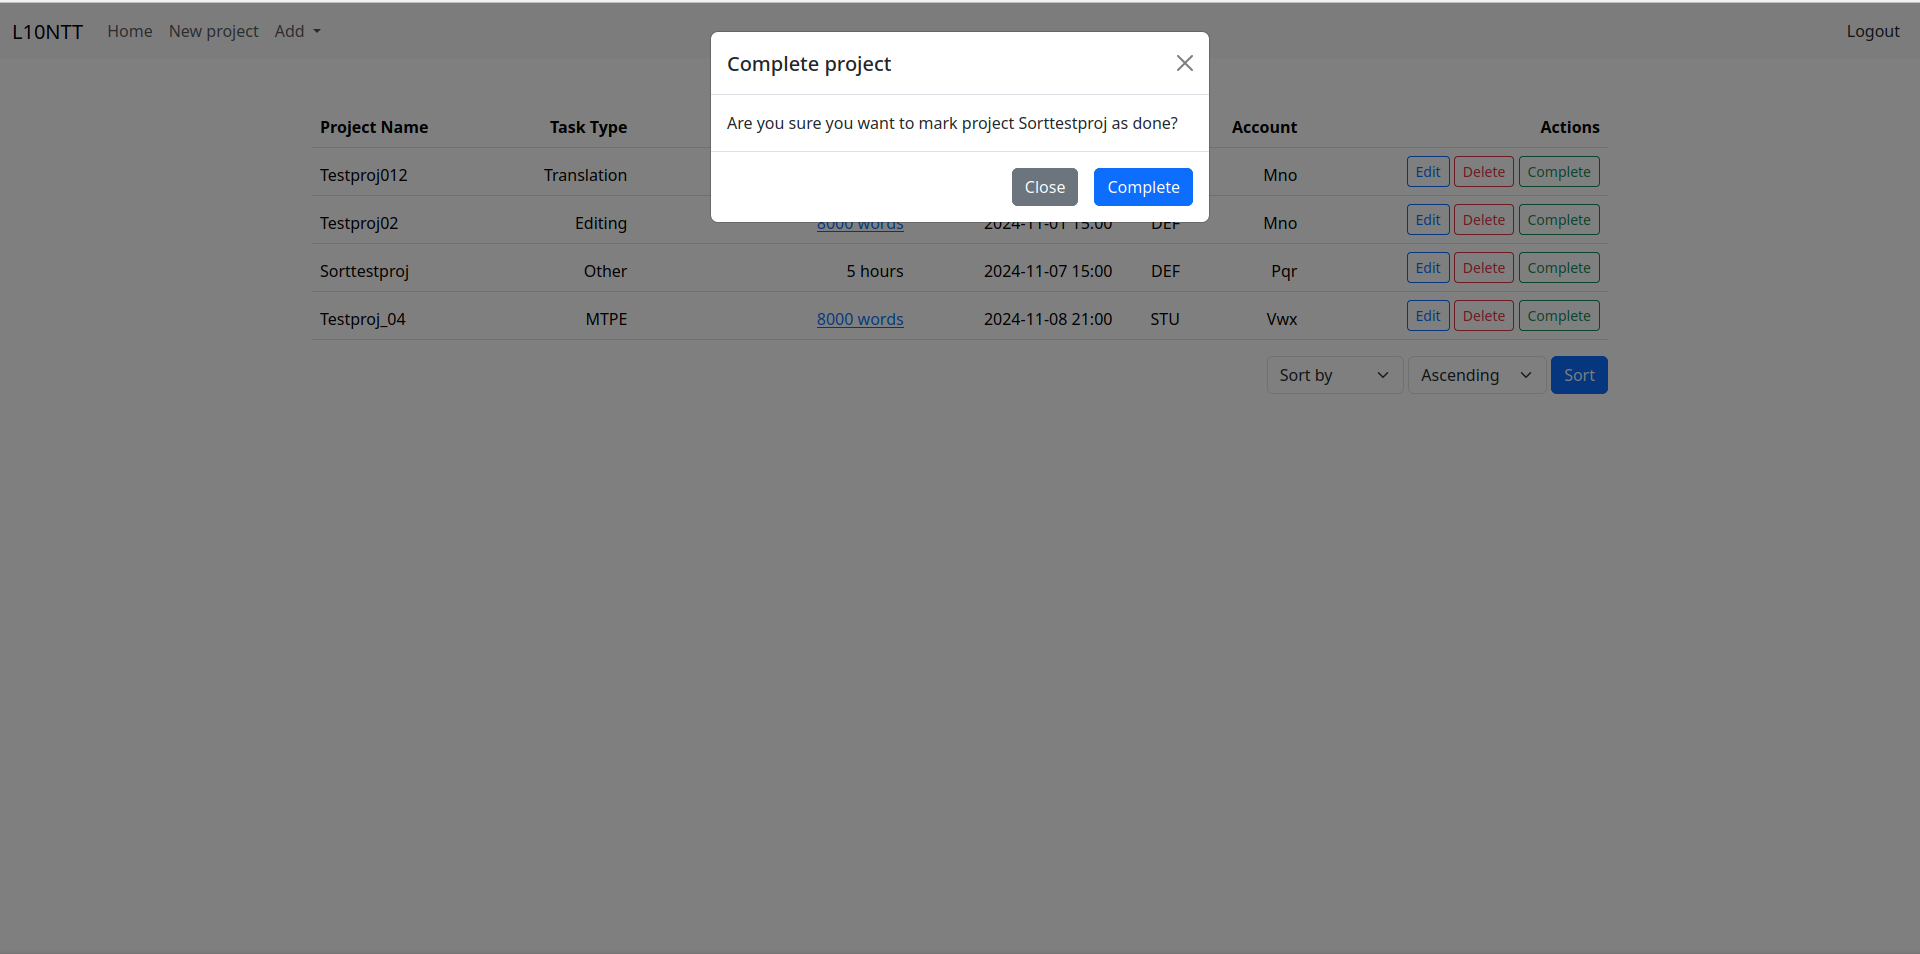
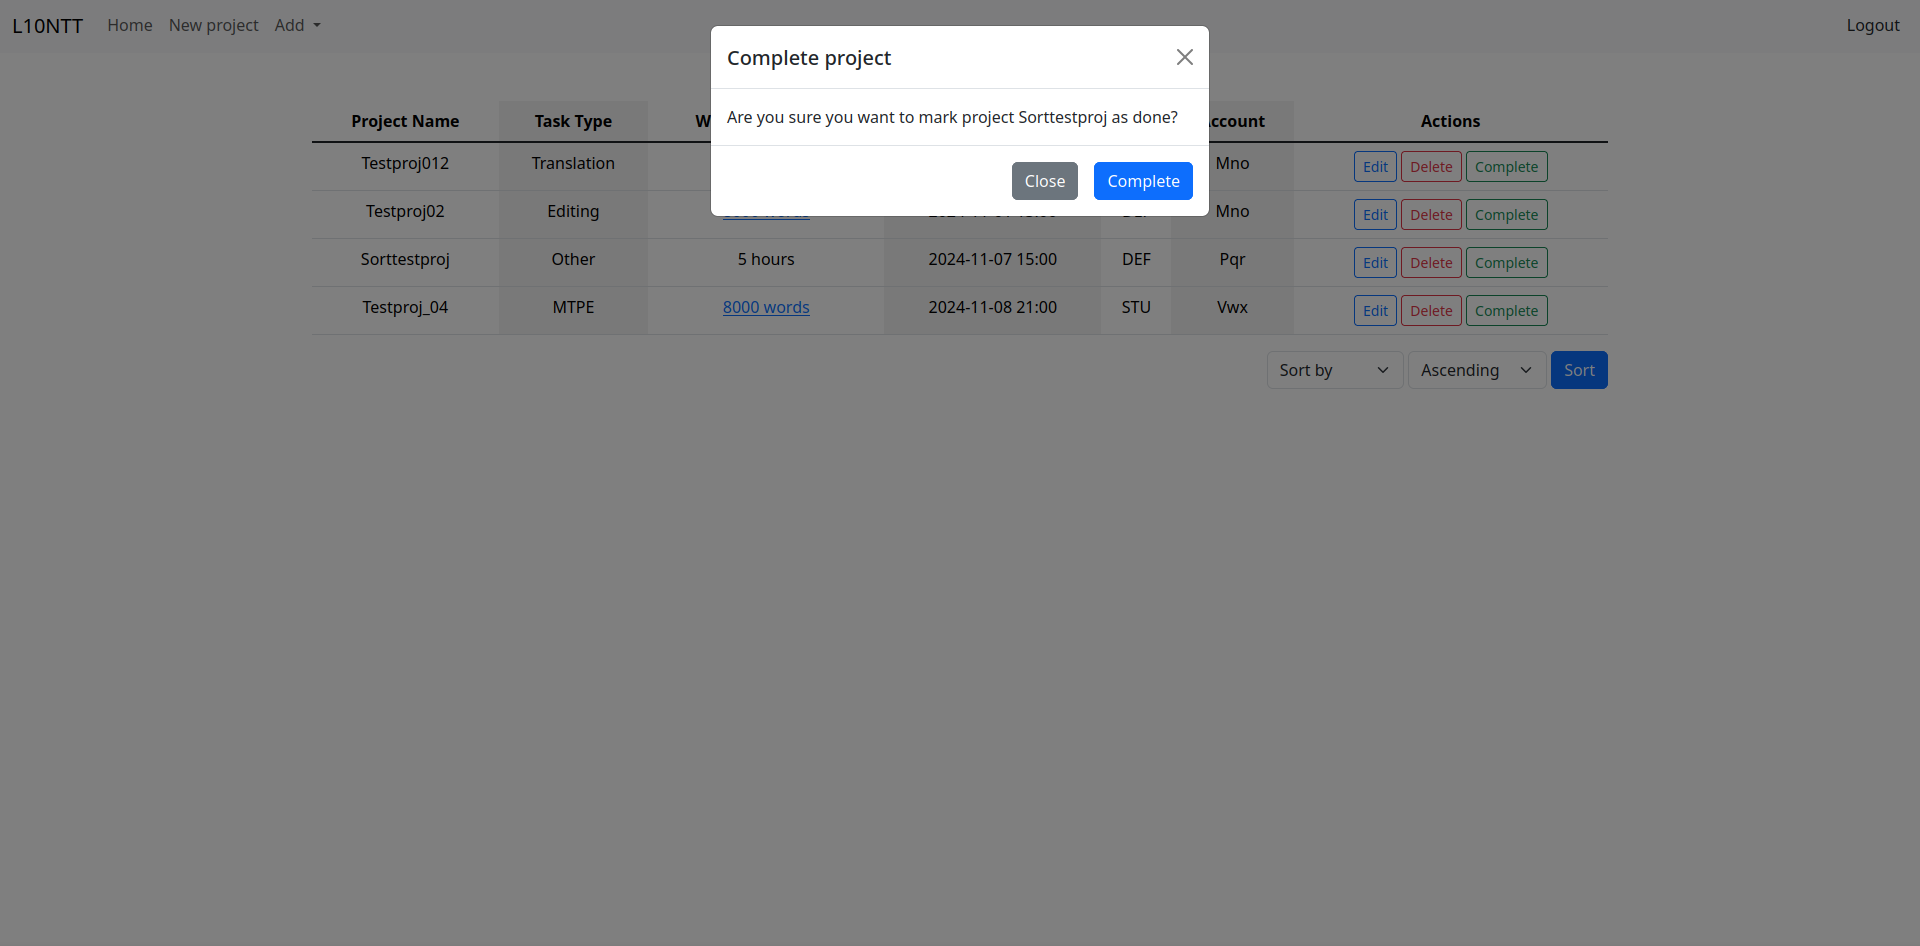
Update README.md index.html

diff --git a/templates/index.html b/templates/index.html
@@ -5,28 +5,30 @@
 {% endblock %}
 
 {% block main %}
-<table class="table table-striped">
+<table class="table table-striped-columns table-hover">
     <thead>
         <tr>
-            <th class="text-start">Project Name</th>
-            <th class="text-end">Task Type</th>
-            <th class="text-end">Weighted Word Count</th>
-            <th class="text-end">Due Date</th>
-            <th class="text-end">LSP</th>
-            <th class="text-end">Account</th>
-            <th class="text-end">Actions</th>
+            <th class="text-center">Project Name</th>
+            <th class="text-center">Task Type</th>
+            <th class="text-center">Weighted Volume</th>
+            <th class="text-center">Due Date</th>
+            <th class="text-center">LSP</th>
+            <th class="text-center">Account</th>
+            <th class="text-center">Actions</th>
         </tr>
+    </thead>
+    <tbody class="table-group-divider">
         {% for project in projects %}
         <tr>
-            <td class="text-start">{{ project.project_name }}</td>
-            <td class="text-end">
+            <td class="text-center">{{ project.project_name }}</td>
+            <td class="text-center">
                 {% if project.task_type == 'mtpe' %}
                     {{ project.task_type | upper }}
                 {% else %}
                     {{ project.task_type | capitalize }}
                 {% endif %}
         </td>
-            <td class="text-end">{% if project.hourlywork != 0 %}
+            <td class="text-center">{% if project.hourlywork != 0 %}
                 {{ project.hourlywork }} hours
                 {% else %}
                 <a data-bs-toggle="collapse" href="#collapse{{ project.id }}Detailed" role="button" aria-expanded="false" aria-controls="collapse{{ project.id }}Detailed">
@@ -34,10 +36,10 @@
                 </a>              
                 {% endif %}
             </td>
-            <td class="text-end">{{ project.date_time }}</td>
-            <td class="text-end">{{ project.lsp_name }}</td>
-            <td class="text-end">{{ project.account_name }}</td>
-            <td class="text-end">
+            <td class="text-center">{{ project.date_time }}</td>
+            <td class="text-center">{{ project.lsp_name }}</td>
+            <td class="text-center">{{ project.account_name }}</td>
+            <td class="text-center">
                 <form class="d-inline" action="/edit_project">
                     <input type="hidden" name="project_id" value="{{ project.id }}">
                     <button type="submit" class="btn btn-outline-primary btn-sm">Edit</button>
@@ -106,25 +108,24 @@
         </div>
 
         {% endfor %}
-    </thead>
+    </tbody>
 </table>
-<form class="text-end" action="/sort">
-    <select class="form-select w-auto d-inline align-middle" name="sort" id="sort">
-        <option value="none">Sort by</option>
-        <option value="project_name">Name</option>
-        <option value="task_type">Task type</option>
-        <option value="weighted_words">Word count</option>
-        <option value="date_time">Due date</option>
-        <option value="lsp_name">LSP</option>
-        <option value="account_name">Account</option>
-    </select>
-    <select class="form-select w-auto d-inline align-middle" name="direction" id="direction">
-        <option value="asc">Ascending</option>
-        <option value="desc">Descending</option>
-    </select>
-    <button type="submit" class="btn btn-primary d-inline align-middle">Sort</button>
-</form>
 
-
+    <form class="text-end" action="/sort">
+        <select class="form-select w-auto d-inline align-middle" name="sort" id="sort">
+            <option value="none">Sort by</option>
+            <option value="project_name">Name</option>
+            <option value="task_type">Task type</option>
+            <option value="weighted_words">Word count</option>
+            <option value="date_time">Due date</option>
+            <option value="lsp_name">LSP</option>
+            <option value="account_name">Account</option>
+        </select>
+        <select class="form-select w-auto d-inline align-middle" name="direction" id="direction">
+            <option value="asc">Ascending</option>
+            <option value="desc">Descending</option>
+        </select>
+        <button type="submit" class="btn btn-primary d-inline align-middle">Sort</button>
+    </form>
     
 {% endblock %}

diff --git a/README.md b/README.md
@@ -62,9 +62,9 @@ This application uses an SQLite database (ltt.db) with the following tables:
 
 **Projects**: This table stores project data, such as word count, due date, project name, etc.
 
-**LSPs**: This table stores LSPs added by the user. Added items are linked with user, meaning only they can access them.
+**LSPs**: This table stores LSPs added by the user. Added items are linked to user, meaning only they can access them.
 
-**Accounts**: This table stores accounts added by the user. Added items are linked with user, meaning only they can access them.
+**Accounts**: This table stores accounts added by the user. Added items are linked to user, meaning only they can access them.
 
 ## Technologies Used
 
@@ -127,7 +127,7 @@ You can access the app at http://127.0.0.1:5000/
 - Detail task types
 - Provide pie charts to present projects in a more visual and intuitive way
 - Support for more analysis breakdowns (e.g., the ability to create different fuzzy match levels, distinguishing between different exact matches)
-- Automating adding projects through script or extension
+- Automate adding projects through script or extension
 - And more...
 
 ## Acknowledgements
